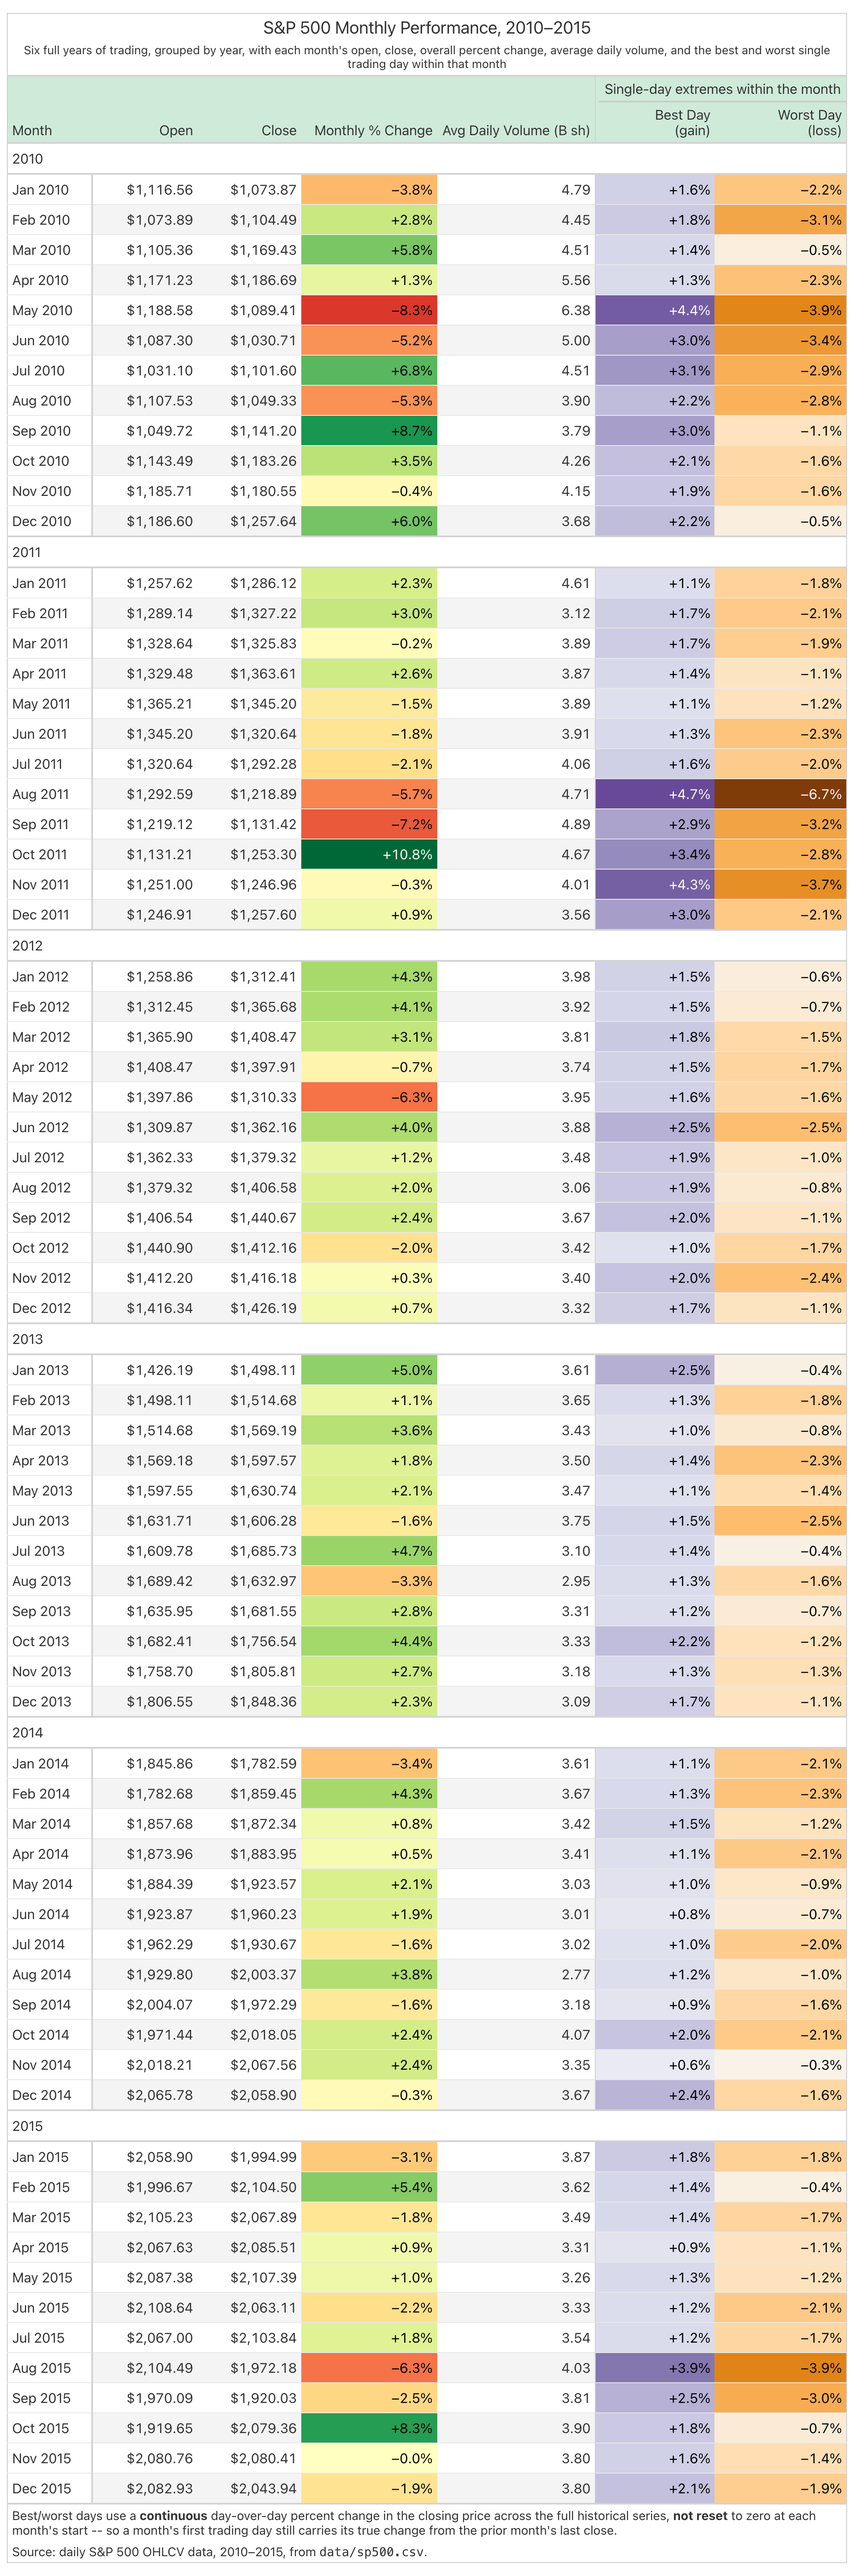
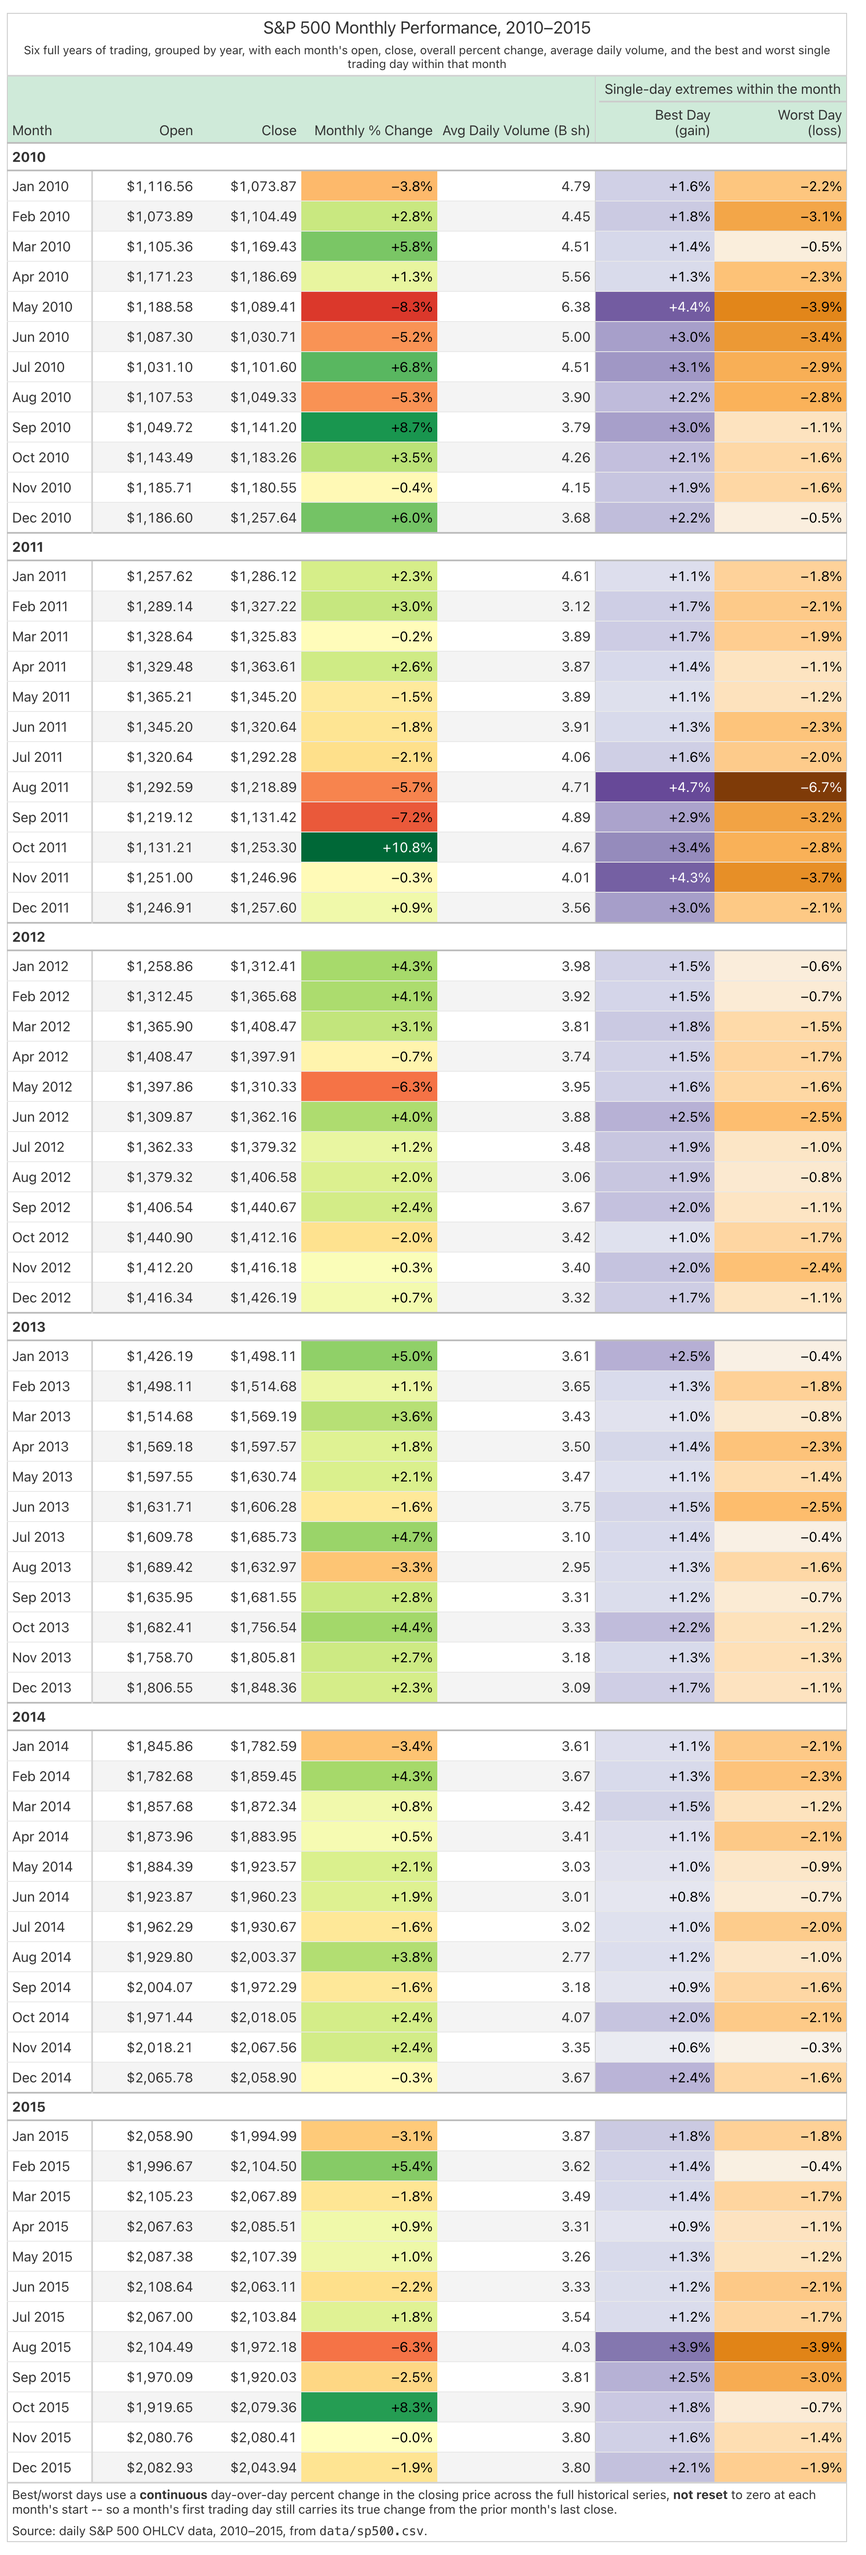
fix(ground-truth): apply house group_emphasis() to the year group headers
groupname_col="year" was set, but the house skill's own group_emphasis()
treatment (bold weight + the #BDBDBD structural rule above/below each
group header, deliberately no background fill) was never applied -- the
year labels rendered as plain, undifferentiated body rows. Added
row_group_font_weight/row_group_border_top_color/row_group_border_bottom_color/
row_group_padding to match gtcars_top10_by_country's own group styling.
Re-rendered the PNG. Self-comparison re-verified: still 92/92.

diff --git a/prompts/hard/ground_truth/sp500_monthly_performance.py b/prompts/hard/ground_truth/sp500_monthly_performance.py
@@ -233,6 +233,16 @@ gt = (
         table_border_bottom_style="solid", table_border_bottom_color="#CCCCCC", table_border_bottom_width="1px",
         table_border_left_style="solid", table_border_left_color="#CCCCCC", table_border_left_width="1px",
         table_border_right_style="solid", table_border_right_color="#CCCCCC", table_border_right_width="1px",
+        # Group-header emphasis (house group_emphasis()): bold weight + the
+        # structural rule above/below each year's header row, deliberately
+        # NO background fill -- a section break, not a result worth its own
+        # highlight (that's the summary/total row's job, which this table
+        # doesn't have). Missing entirely in an earlier draft of this file;
+        # every year label rendered as an undifferentiated body row.
+        row_group_font_weight="bold",
+        row_group_border_top_color="#BDBDBD",
+        row_group_border_bottom_color="#BDBDBD",
+        row_group_padding="6px",
     )
     # 72 rows, and only 3 of 6 measure columns are colored (open/close/
     # avg_volume stay plain) -- nowhere near "essentially fully filled," so
